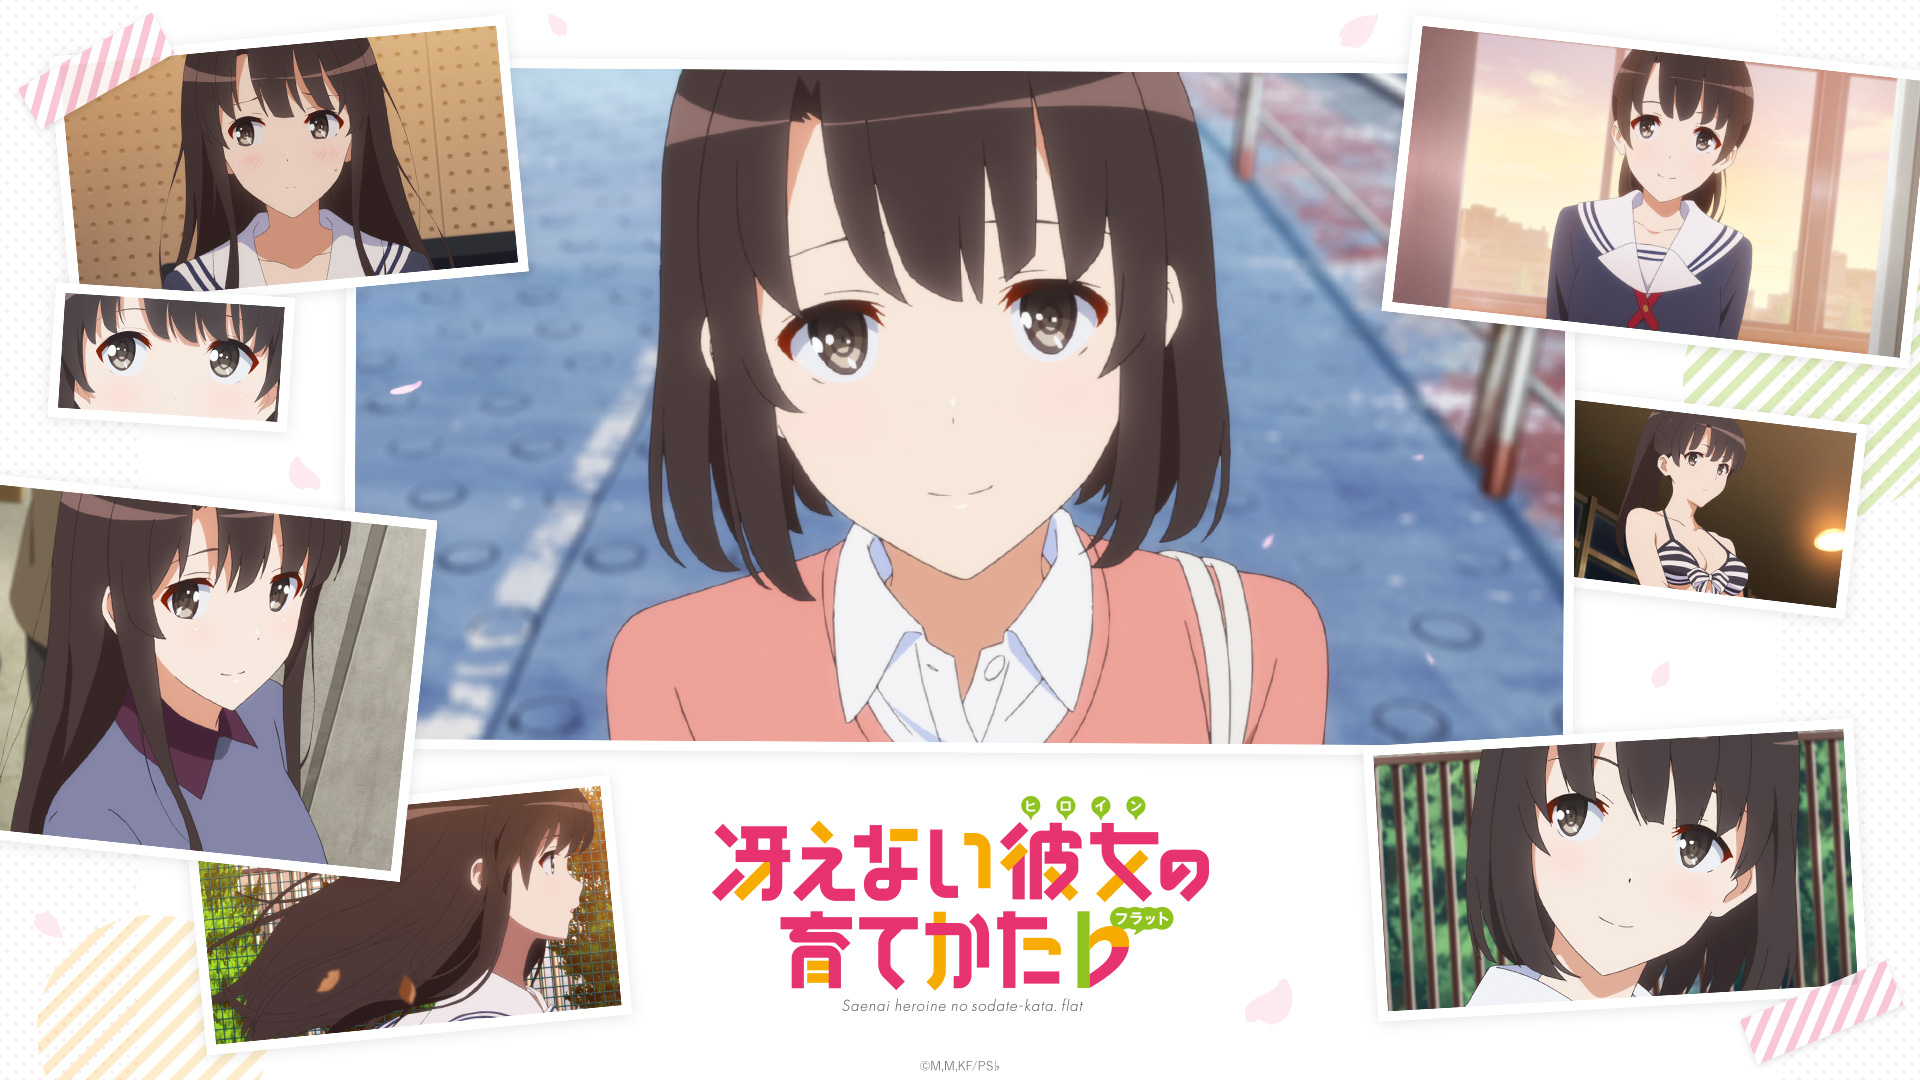
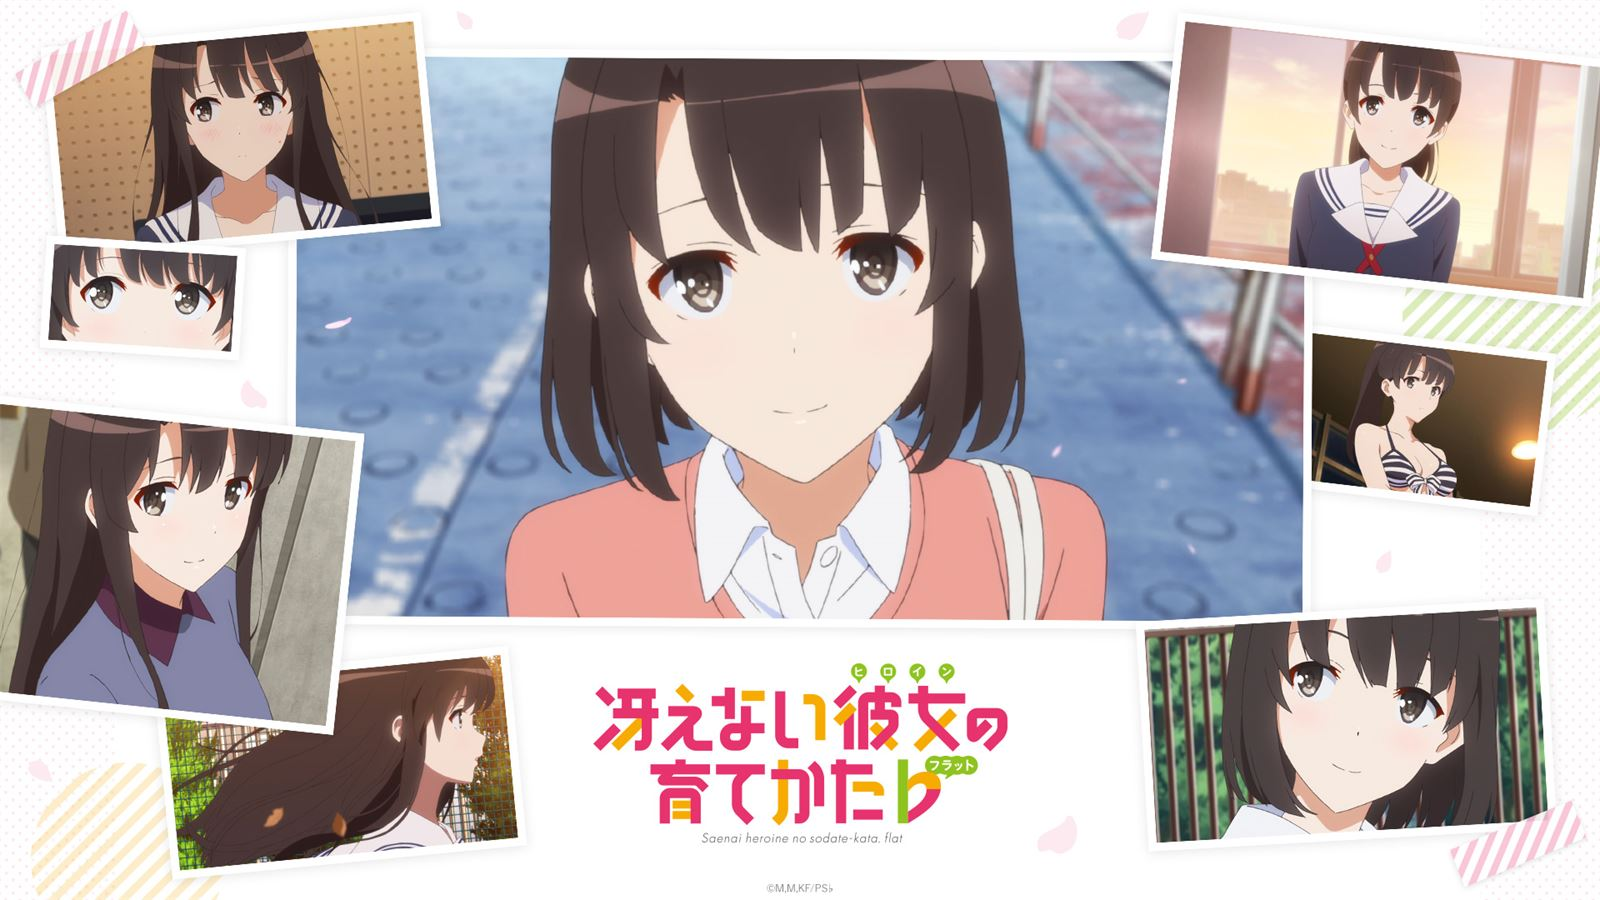
perf: 封面圖縮至 1600px 寬 JPEG q80（22.6MB → 1.6MB），md.png 改 md.jpg

diff --git a/source/_posts/md-note/record-some-markdown.md b/source/_posts/md-note/record-some-markdown.md
@@ -4,7 +4,7 @@ date: 2023-02-21 21:33:54
 tags: [Markdown ] # 文章標籤
 categories: MD 筆記 # 文章分類
 sticky: true # 文章置頂
-cover: assets/img/md.png # 文章封面
+cover: assets/img/md.jpg # 文章封面
 comment: false # 關閉評論
 ---
 
